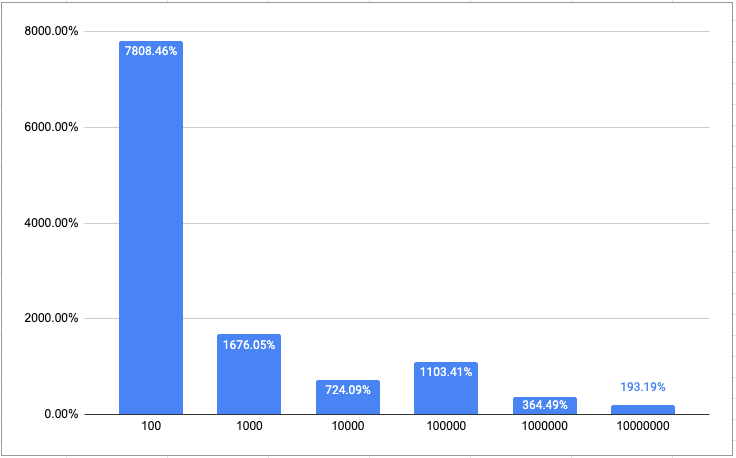
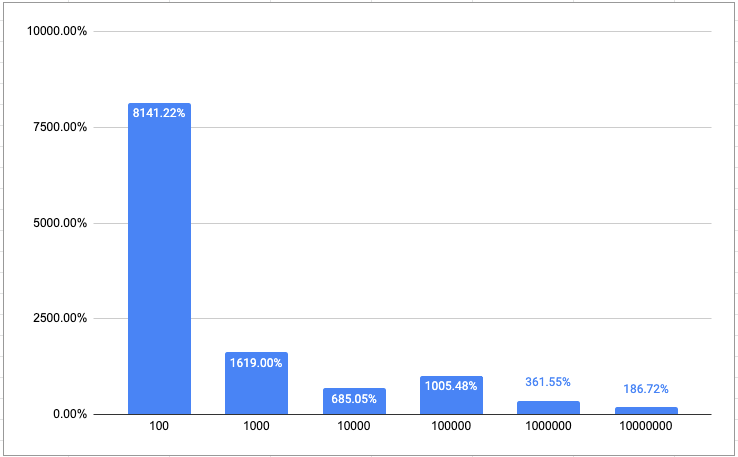
Add preliminary MerkleNode linking mechanism in GPU version. Update README.

diff --git a/merkle_tree.hpp b/merkle_tree.hpp
@@ -23,7 +23,7 @@ enum LeftOrRightSib {
 #define NO_ACCEL          1
 #define ACCEL_CREATION    2
 #define ACCEL_REDUCTION   4
-#define ACCEL_RESERVED_1  8
+#define ACCEL_LINK        8
 #define ACCEL_RESERVED_2  16
 
 // Hash algorithms
@@ -134,6 +134,13 @@ class MerkleTree {
   std::vector<MerkleNode*> hashes;
   std::unordered_map<std::string, MerkleNode*> hash_leaf_map;
   Hasher* hasher;
+
+  // for GPU version node linking
+  unsigned int* parents;
+  unsigned int* lefts;
+  unsigned int* rights;
+  LeftOrRightSib* lrs;
+  unsigned int arr_size;
 
   void delete_tree_walker(MerkleNode* cur_node);
   MerkleNode* make_tree_from_hashes(std::vector<MerkleNode *>& cur_layer_nodes);

diff --git a/README.md b/README.md
@@ -17,6 +17,7 @@ Currently, we have accelerated two Merkle Tree operations:
 - Creation (`ACCEL_CREATION`): from raw data, make Merkle leaf nodes.
 - Reducation (`ACCEL_REDUCTION`): from all Merkle leaf nodes, derive root node.
   * Still WIP; root hash is available but cannot find siblings yet.
+  * `ACCEL_LINK` available for speed-up evaluation
 
 **(Only applies to GPU version!)**
 To set the acceleration mode, use a bitmask:
@@ -44,21 +45,28 @@ By offloading hashing algorithms to the GPU side, we are seeing signigicant
 speed-ups in data sizes larger than 1GB, and it's most significant in 10GB with
 block size set to 100 bytes in our preliminary tests.
 
-The best speed-up we can achieve at the moment is *78x*.
+The best speed-up we can achieve at the moment is **81x**.
 
 The speed-up charts are as follow (x-axis is `block_size`):
 
-**Creation Acceleration**
+#### Creation Acceleration
 - `data_len = 1000000000` (~ 1GB)
   ![1GB Speed-up Chart](pix/1GB_speedup.png)
 - `data_len = 10000000000` (~ 10GB)
   ![10GB Speed-up Chart](pix/10GB_speedup.png)
 
-**Full Acceleration (Creation + Reduction)**
+#### Full Acceleration (Creation + Reduction)
 - `data_len = 1000000000` (~ 1GB)
   ![1GB Speed-up Chart](pix/1GB_speedup_full.png)
 - `data_len = 10000000000` (~ 10GB)
   ![10GB Speed-up Chart](pix/10GB_speedup_full.png)
+
+#### Full Acceleration + `ACCEL_LINK`
+We can see slight overhead compared to the above.
+- `data_len = 1000000000` (~ 1GB)
+  ![1GB Speed-up Chart](pix/1GB_speedup_link.png)
+- `data_len = 10000000000` (~ 10GB)
+  ![10GB Speed-up Chart](pix/10GB_speedup_link.png)
 
 ## Generate/Load `TestData`
 ```C++
